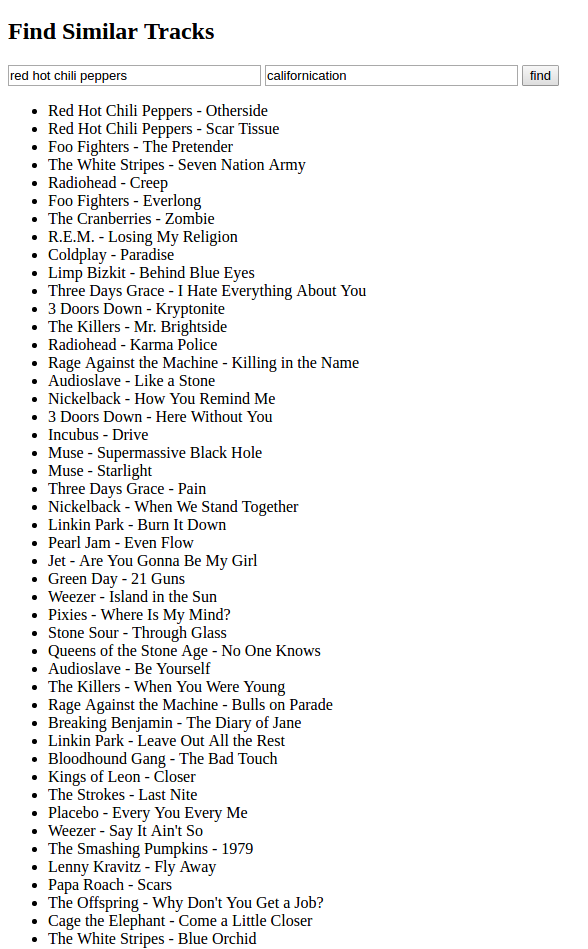
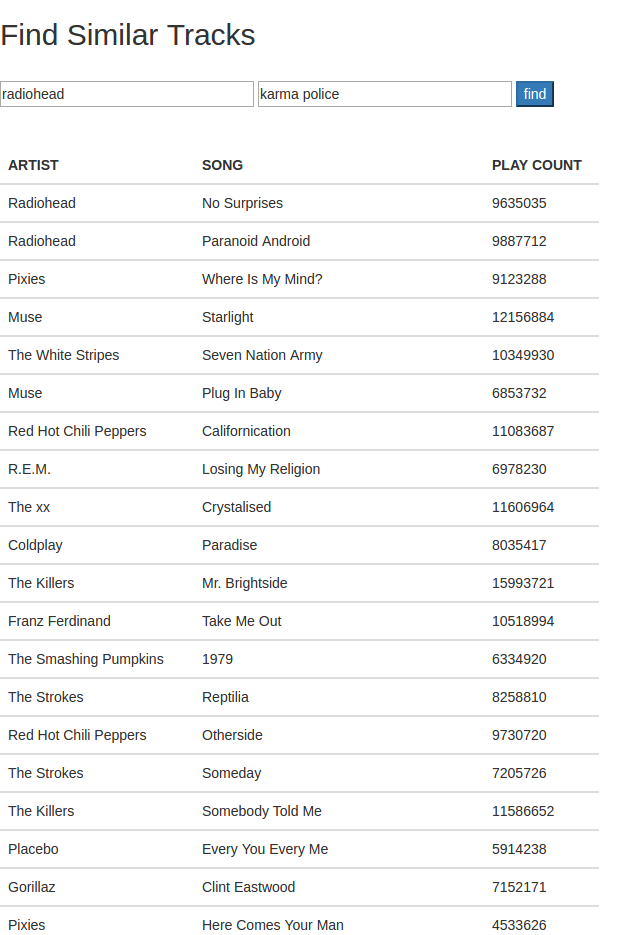
using bootstrap and sending new picture

Changed region(s): [[0.0, 0.0, 0.949, 1.0], [0.7653, 0.4963, 0.8878, 1.0], [0.7653, 0.1551, 0.9184, 0.4652]]

diff --git a/app/index.html b/app/index.html
@@ -2,11 +2,12 @@
 <html ng-app="trackApp">
   <head>
     <script src="https://ajax.googleapis.com/ajax/libs/angularjs/1.6.1/angular.js"></script>
+    <link href="http://getbootstrap.com/dist/css/bootstrap.min.css" rel="stylesheet">
     <script src="track.js"></script>
-    <link rel="stylesheet" href="track.css">
   </head>
   <body>
     <h2>Find Similar Tracks</h2>
+    <br>
     <div ng-controller="TrackListController as trackList">
       <form ng-submit="trackList.getTracks()">
        <input type="text" ng-model="trackList.artist"  size="30"
@@ -15,14 +16,30 @@
              placeholder="type track name">
        <input class="btn-primary" type="submit" value="find">
       </form>
-      <ul class="unstyled">
-        <li ng-repeat="track in trackList.tracks">
-          <label>
-            <span class="done-{{track.done}}">{{track.text}}</span>
-          </label>
-        </li>
-      </ul>
+      <br>
+      <br>
+      <div class="row">
+         <div class="col-md-6">
+           <table class="table">
+             <thead>
+               <tr>
+                 <th>ARTIST</th>
+                 <th>SONG</th>
+                 <th>PLAY COUNT</th>
+               </tr>
+             </thead>
+             <tbody ng-repeat="track in trackList.tracks">
+                 <td>{{track.artist}}</td>
+                 <td>{{track.song}}</td>
+                 <td>{{track.count}}</td>
+             </tbody>
+          </table>
+         </div>
+        </div>
       <span>{{trackList.tracks.length}} tracks found</span>
     </div>
   </body>
+  <script src="http://getbootstrap.com/dist/js/bootstrap.min.js"></script>
+  <script src="http://getbootstrap.com/assets/js/docs.min.js"></script>
+  <script src="https://ajax.googleapis.com/ajax/libs/jquery/1.12.4/jquery.min.js"></script>
 </html>

diff --git a/app/track.js b/app/track.js
@@ -20,7 +20,10 @@ angular.module('trackApp', [])
             for(var i = 0; i < Math.min(50, response.data.similartracks.track.length); i++) {
                 trackList.tracks.push({text:response.data.similartracks.track[i].artist.name
                     + " - " + response.data.similartracks.track[i].name + " ("
-                    + response.data.similartracks.track[i].playcount + ")", done:false});
+                    + response.data.similartracks.track[i].playcount + ")",
+                    artist: response.data.similartracks.track[i].artist.name,
+                    song: response.data.similartracks.track[i].name,
+                    count: response.data.similartracks.track[i].playcount});
             }
         })
     };
